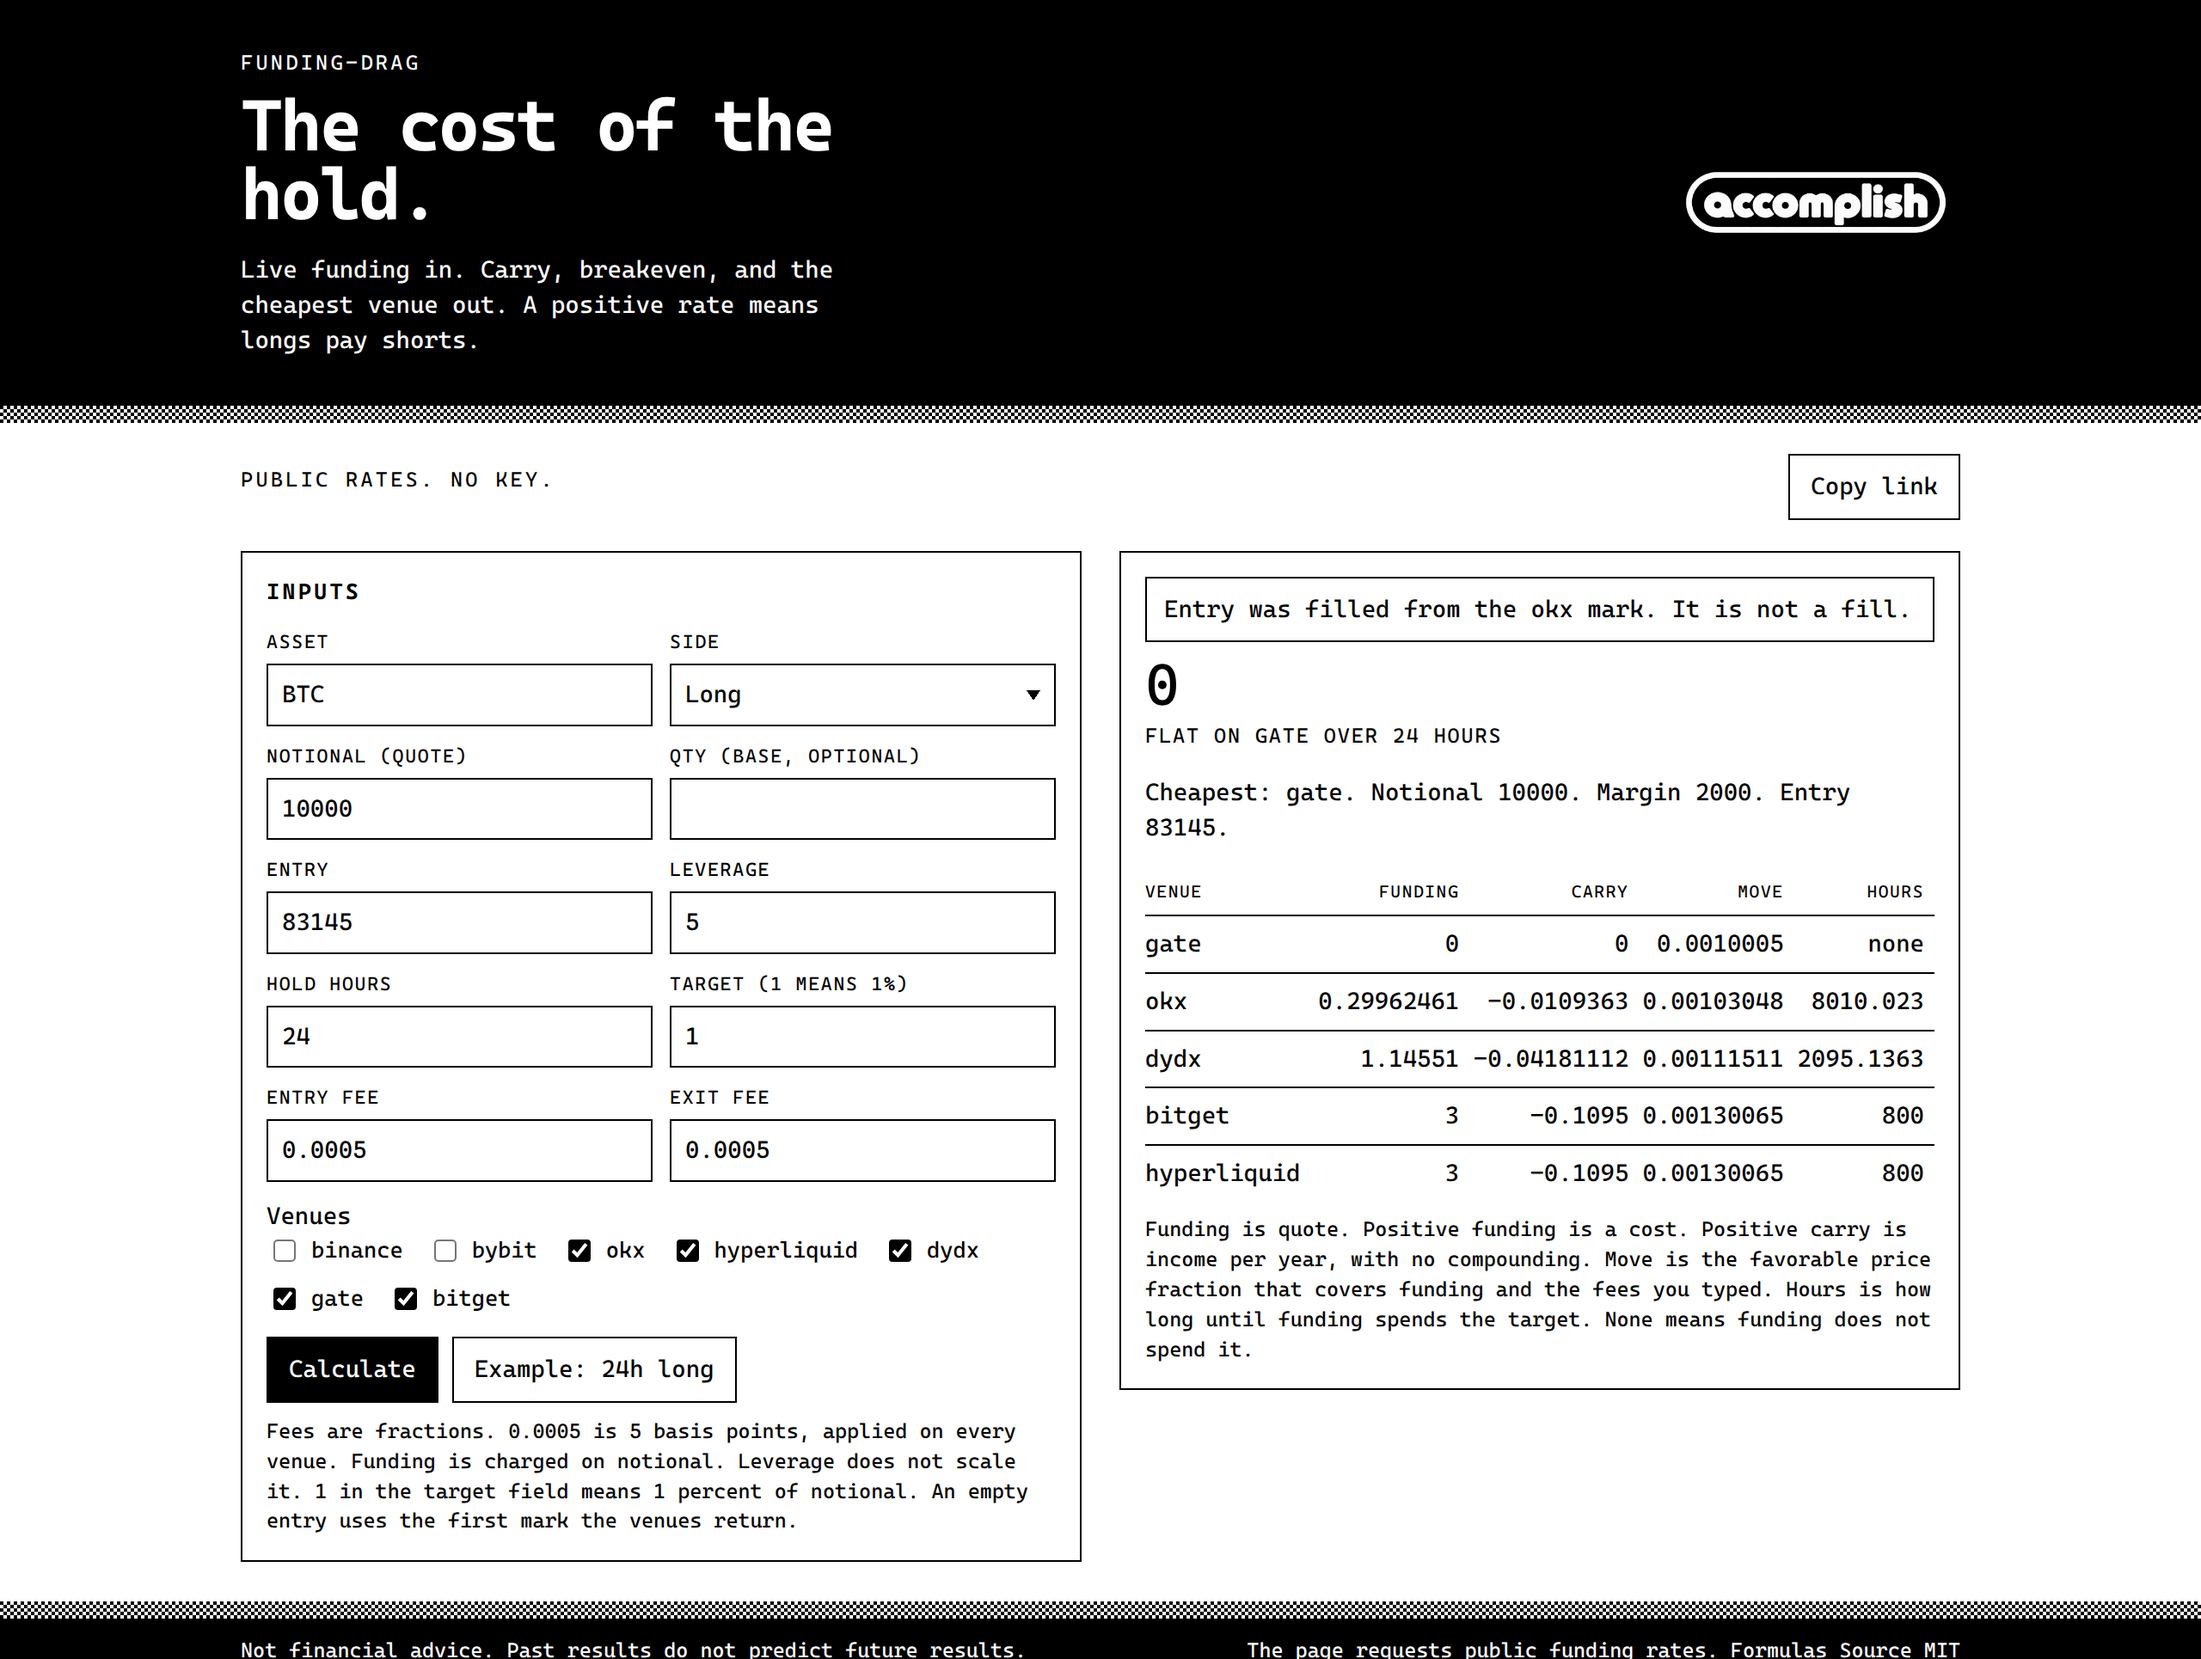
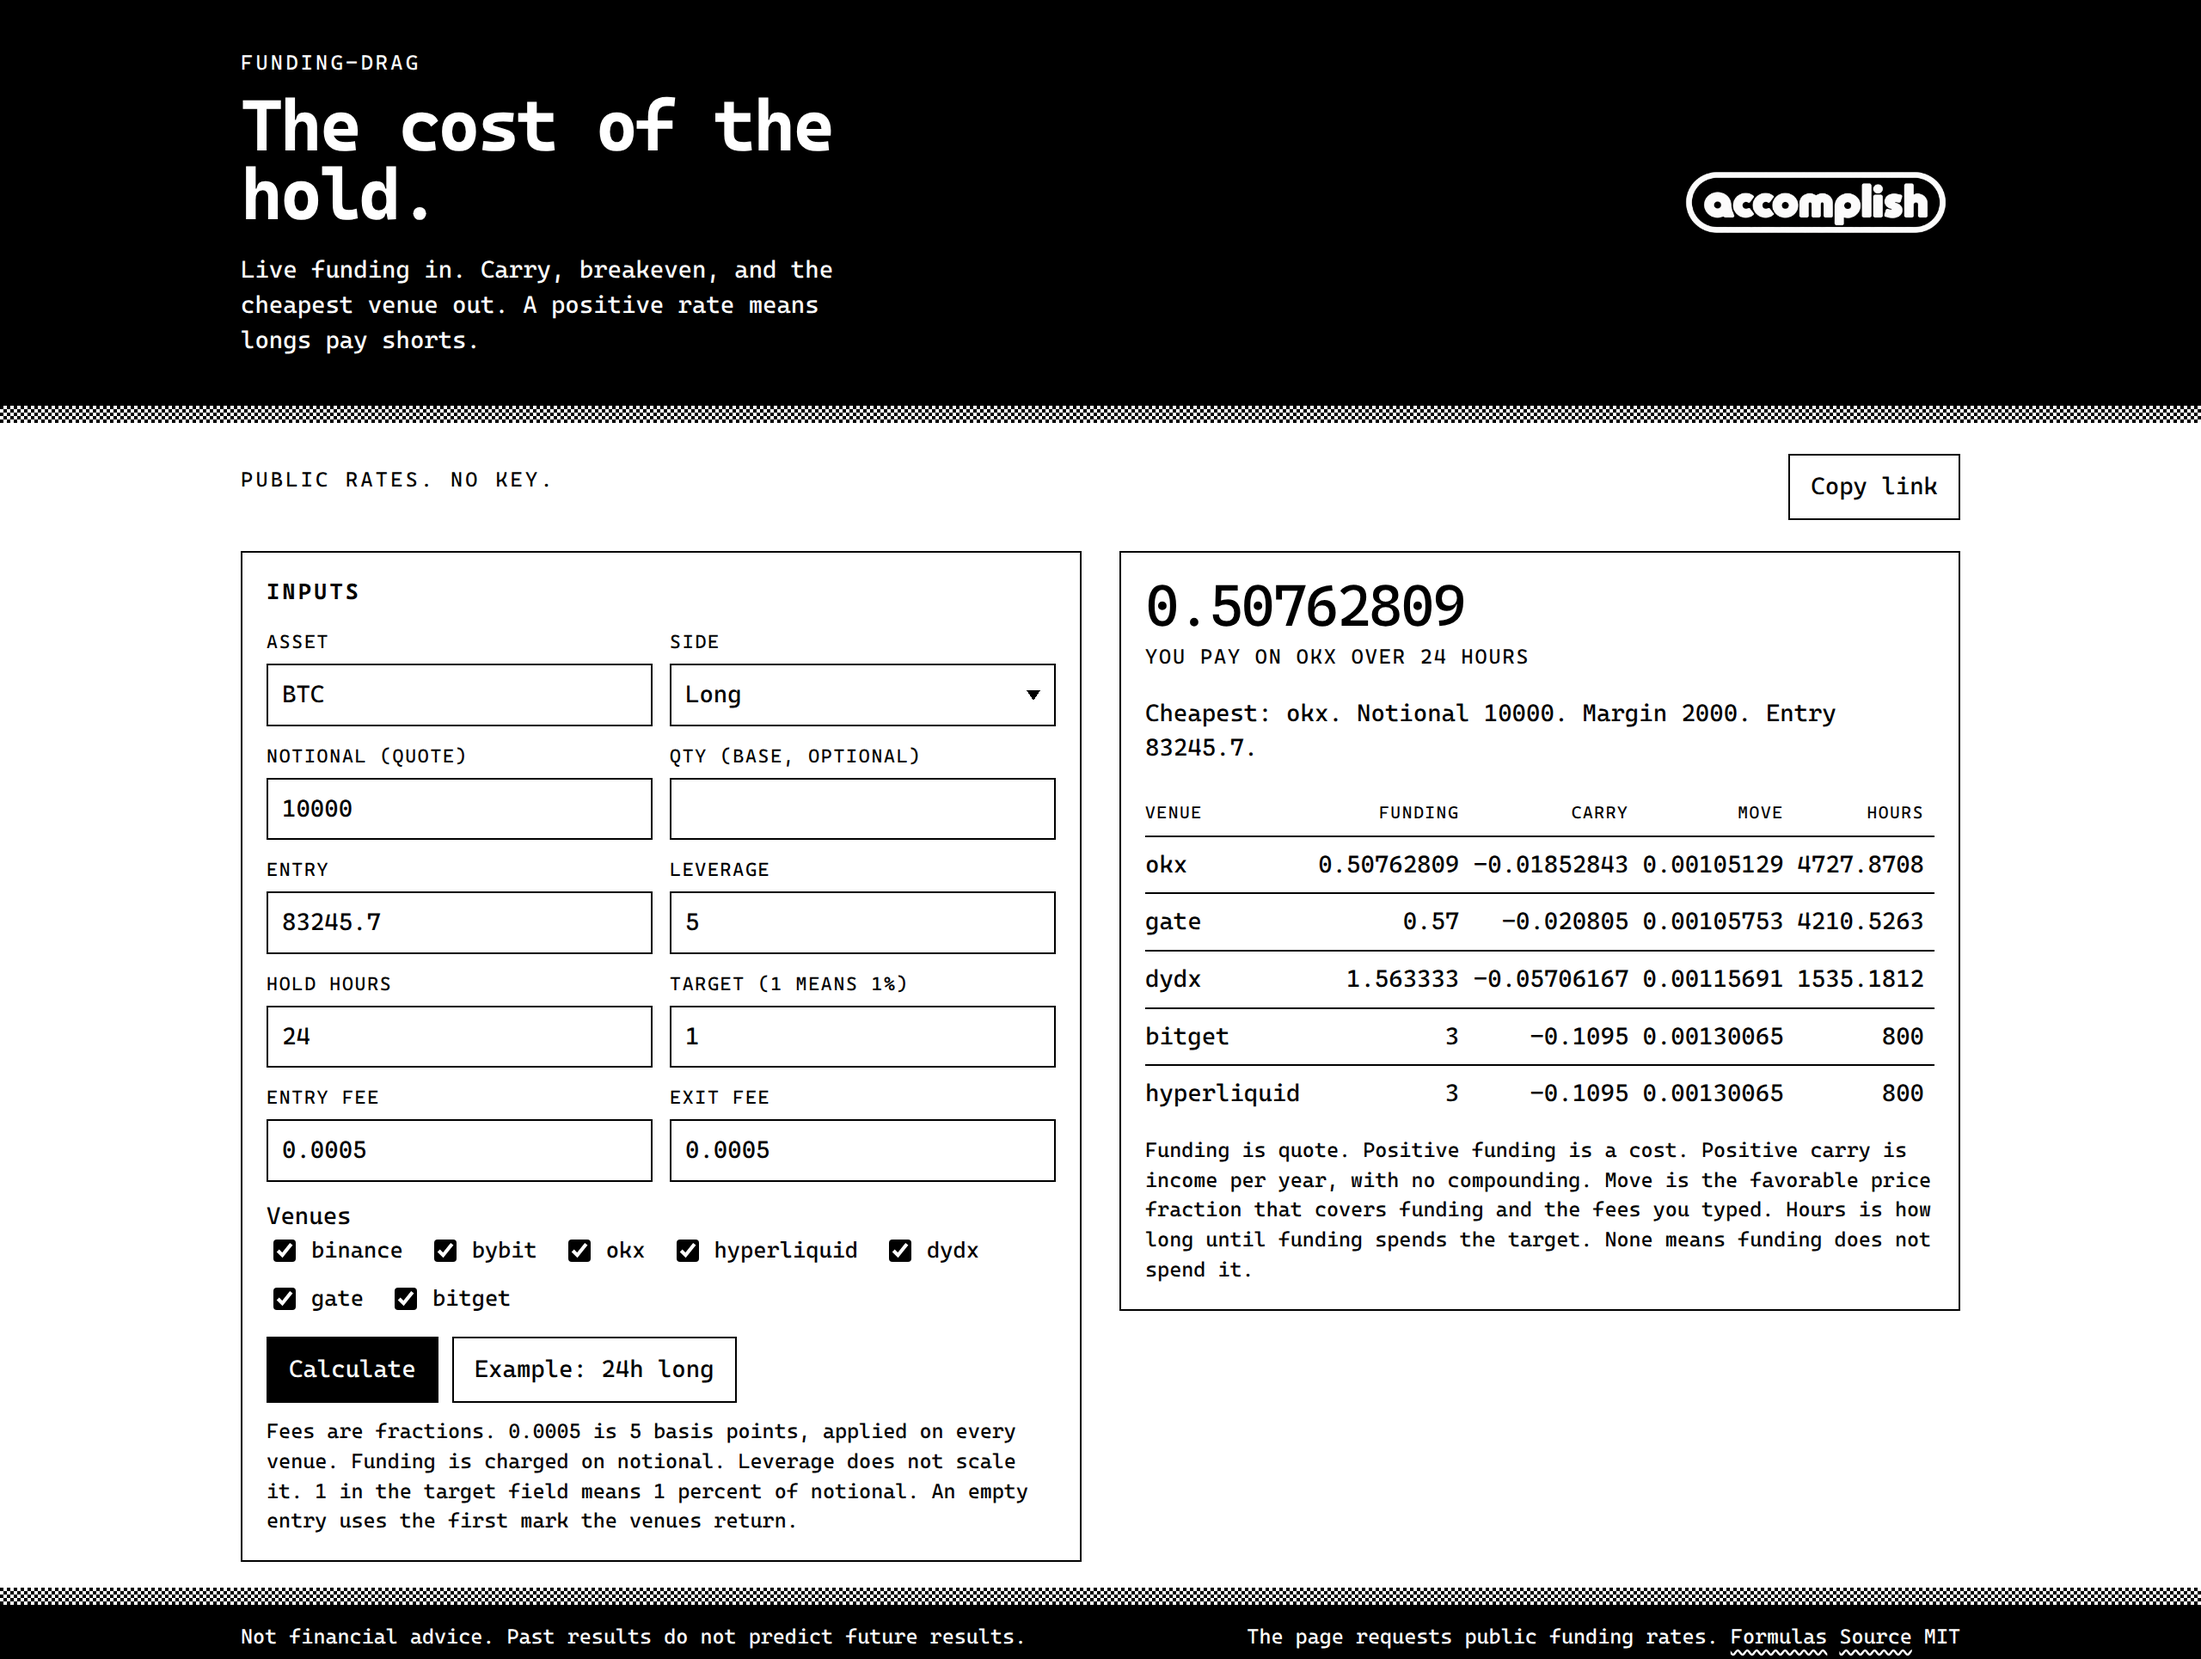
Leave failed venues out of the calculator page.

diff --git a/web/app.js b/web/app.js
@@ -27,17 +27,10 @@
     return text.includes(".") ? text.replace(/\.?0+$/, "") : text;
   }
 
-  function render(result, entryNote) {
+  function render(result) {
     const focus = result.venues.find((venue) => venue.venue === result.focus) || result.venues[0];
     const funding = focus.current.fundingQuote;
     const verb = funding > 0 ? "you pay" : funding < 0 ? "you receive" : "flat";
-    const warnings = result.warnings
-      .map((warning) => {
-        const cls = warning.severity === "loud" ? "warning" : "note";
-        const tag = warning.severity === "loud" ? "Warning" : "Note";
-        return `<div class="${cls}"><p>${tag}: ${escapeText(warning.message)}</p></div>`;
-      })
-      .join("");
     const rows = result.venues
       .map(
         (venue) => `<tr>
@@ -49,9 +42,7 @@
         </tr>`,
       )
       .join("");
-    const note = entryNote ? `<div class="note"><p>${escapeText(entryNote)}</p></div>` : "";
-    $("out").innerHTML = `${warnings}${note}
-      <p class="hero">${roundTrip(funding)}</p>
+    $("out").innerHTML = `<p class="hero">${roundTrip(funding)}</p>
       <p class="hero-label">${escapeText(verb)} on ${escapeText(focus.venue)} over ${roundTrip(result.holdHours)} hours</p>
       <p>Cheapest: ${escapeText(result.cheapest)}. Notional ${roundTrip(result.notional)}. Margin ${roundTrip(result.margin)}. Entry ${roundTrip(result.entry)}.</p>
       <table>
@@ -68,10 +59,17 @@
     );
   }
 
+  function noRates() {
+    $("out").textContent = "No rates available right now. Try again.";
+  }
+
   function fail(err) {
-    const code = err && err.code ? err.code : "ERROR";
-    const message = err && err.message ? err.message : String(err);
-    $("out").innerHTML = `<p class="err">${escapeText(code)}: ${escapeText(message)}</p>`;
+    const code = err && err.code;
+    if (!code || code === "ALL_VENUES_UNAVAILABLE" || code === "NO_QUOTES") {
+      noRates();
+      return;
+    }
+    $("out").textContent = err.message;
   }
 
   async function calculate() {
@@ -80,23 +78,18 @@
     const venues = selectedVenues();
     const loaded = await FD.loadQuotes(asset, venues);
     if (!loaded.quotes.length) {
-      const detail = loaded.failures.map((failure) => `${failure.venue}: ${failure.message}`).join(" ");
-      const err = new Error(detail || "No venue returned a funding rate.");
-      err.code = "ALL_VENUES_UNAVAILABLE";
-      throw err;
+      noRates();
+      return;
     }
     let entry = num("entry");
-    let entryNote = "";
     if (entry === undefined) {
       const marked = loaded.quotes.find((quote) => Number.isFinite(quote.markPrice) && quote.markPrice > 0);
       if (!marked) {
-        const err = new Error("Pass an entry. No venue returned a mark.");
-        err.code = "MISSING";
-        throw err;
+        noRates();
+        return;
       }
       entry = marked.markPrice;
       $("entry").value = String(entry);
-      entryNote = `Entry was filled from the ${marked.venue} mark. It is not a fill.`;
     }
     const input = {
       asset,
@@ -112,8 +105,8 @@
     const qty = num("qty");
     if (notional !== undefined) input.notional = notional;
     if (qty !== undefined) input.qty = qty;
-    const result = FD.projectFunding(input, loaded.quotes, { failures: loaded.failures });
-    render(result, entryNote);
+    const result = FD.projectFunding(input, loaded.quotes);
+    render(result);
   }
 
   function readHash() {

diff --git a/test/page.test.ts b/test/page.test.ts
@@ -1,0 +1,22 @@
+import assert from "node:assert/strict";
+import { readFileSync } from "node:fs";
+import { test } from "node:test";
+
+const page = readFileSync("web/app.js", "utf8");
+
+test("the page does not print venue or entry notes", () => {
+  assert.equal(page.includes("did not return a rate"), false);
+  assert.equal(page.includes("Failed to fetch"), false);
+  assert.equal(page.includes("Entry was filled"), false);
+  assert.equal(page.includes("It is not a fill"), false);
+  assert.equal(page.includes("opposite signs"), false);
+  assert.equal(page.includes("Note:"), false);
+  assert.equal(page.includes("WARNING"), false);
+  assert.equal(page.includes('class="note"'), false);
+  assert.equal(page.includes('class="warning"'), false);
+  assert.equal(page.includes('class="err"'), false);
+});
+
+test("the page has one plain line when every venue fails", () => {
+  assert.equal(page.includes("No rates available right now. Try again."), true);
+});

diff --git a/web/styles.css b/web/styles.css
@@ -257,24 +257,6 @@ select {
   text-transform: uppercase;
 }
 
-.warning {
-  background: var(--ink);
-  color: var(--paper);
-  padding: 12px;
-  margin: 0 0 12px;
-}
-
-.warning p,
-.note p {
-  margin: 0;
-}
-
-.note {
-  border: 1px solid var(--ink);
-  padding: 8px 10px;
-  margin: 0 0 8px;
-}
-
 table {
   width: 100%;
   border-collapse: collapse;
@@ -301,12 +283,6 @@ td.num,
 th.num {
   text-align: right;
   font-variant-numeric: tabular-nums;
-}
-
-.err {
-  border: 1px solid var(--ink);
-  padding: 10px;
-  margin: 0;
 }
 
 footer {

diff --git a/README.md b/README.md
@@ -8,9 +8,9 @@ Funding is a fraction of notional, on a clock. A positive print means longs pay 
 
 The hosted calculator is <https://accompli.sh/funding-drag>.
 
-The shot is one load of that page at 2026-10-07T17:49:45Z. Venues on are OKX, Hyperliquid, dYdX, Gate, and Bitget. A later load will differ. [Live check](#live-check) is a different fetch.
+The shot is the built page at 2026-10-07T18:18:46Z. Every venue is checked. Binance and Bybit did not answer, so they are not in the table. A later load will differ. [Live check](#live-check) is a different fetch.
 
-![Hosted page at 2026-10-07T17:49:45Z. BTC long, notional 10000, leverage 5, hold 24 hours, target 1 percent, fees 0.0005. Entry 83145 filled from the OKX mark. Venues on: OKX, Hyperliquid, dYdX, Gate, Bitget. Cheapest is Gate, margin 2000. Gate is flat: funding 0, carry 0, move 0.0010005, hours none. OKX funding 0.29962461, carry -0.0109363, move 0.00103048, hours 8010.023. dYdX funding 1.14551, carry -0.04181112, move 0.00111511, hours 2095.1363. Bitget and Hyperliquid funding 3, carry -0.1095, move 0.00130065, hours 800. Copy link sits by the kicker.](docs/images/calc.png)
+![Built page at 2026-10-07T18:18:46Z. BTC long, notional 10000, leverage 5, hold 24 hours, target 1 percent, fees 0.0005. Entry 83245.7. Every venue checked. Cheapest is OKX, margin 2000. OKX funding 0.50762809, carry -0.01852843, move 0.00105129, hours 4727.8708. Gate funding 0.57, carry -0.020805, move 0.00105753, hours 4210.5263. dYdX funding 1.563333, carry -0.05706167, move 0.00115691, hours 1535.1812. Bitget and Hyperliquid funding 3, carry -0.1095, move 0.00130065, hours 800. Copy link sits by the kicker.](docs/images/calc.png)
 
 This is arithmetic on published rates. It is not a signal, and it is not advice. Past funding does not predict the next interval.
 
@@ -466,7 +466,7 @@ Hosted copy: <https://accompli.sh/funding-drag>.
 
 Locally, `npm run build:web` writes `web/funding-drag.js`. Open [web/index.html](web/index.html) after that. The page needs JavaScript. The CLI does not, if you pass a file that already contains quotes.
 
-The form starts as BTC, long, notional 10,000, leverage 5, hold 24 hours, target 1, fees 0.0005. Entry is empty, so the first mark that comes back fills it and the page says so. `Example: 24h long` restores that and fetches again. `Copy link` writes the fields into the URL hash and copies that URL. A hash is not sent with the page request.
+The form starts as BTC, long, notional 10,000, leverage 5, hold 24 hours, target 1, fees 0.0005. Entry is empty, so the first mark that comes back fills the field. A venue that does not answer is left out of the table. If none answer, the page says no rates are available. `Example: 24h long` restores the form and fetches again. `Copy link` writes the fields into the URL hash and copies that URL. A hash is not sent with the page request.
 
 On this form, 1 in the target field means 1 percent. Fees are fractions.
 
